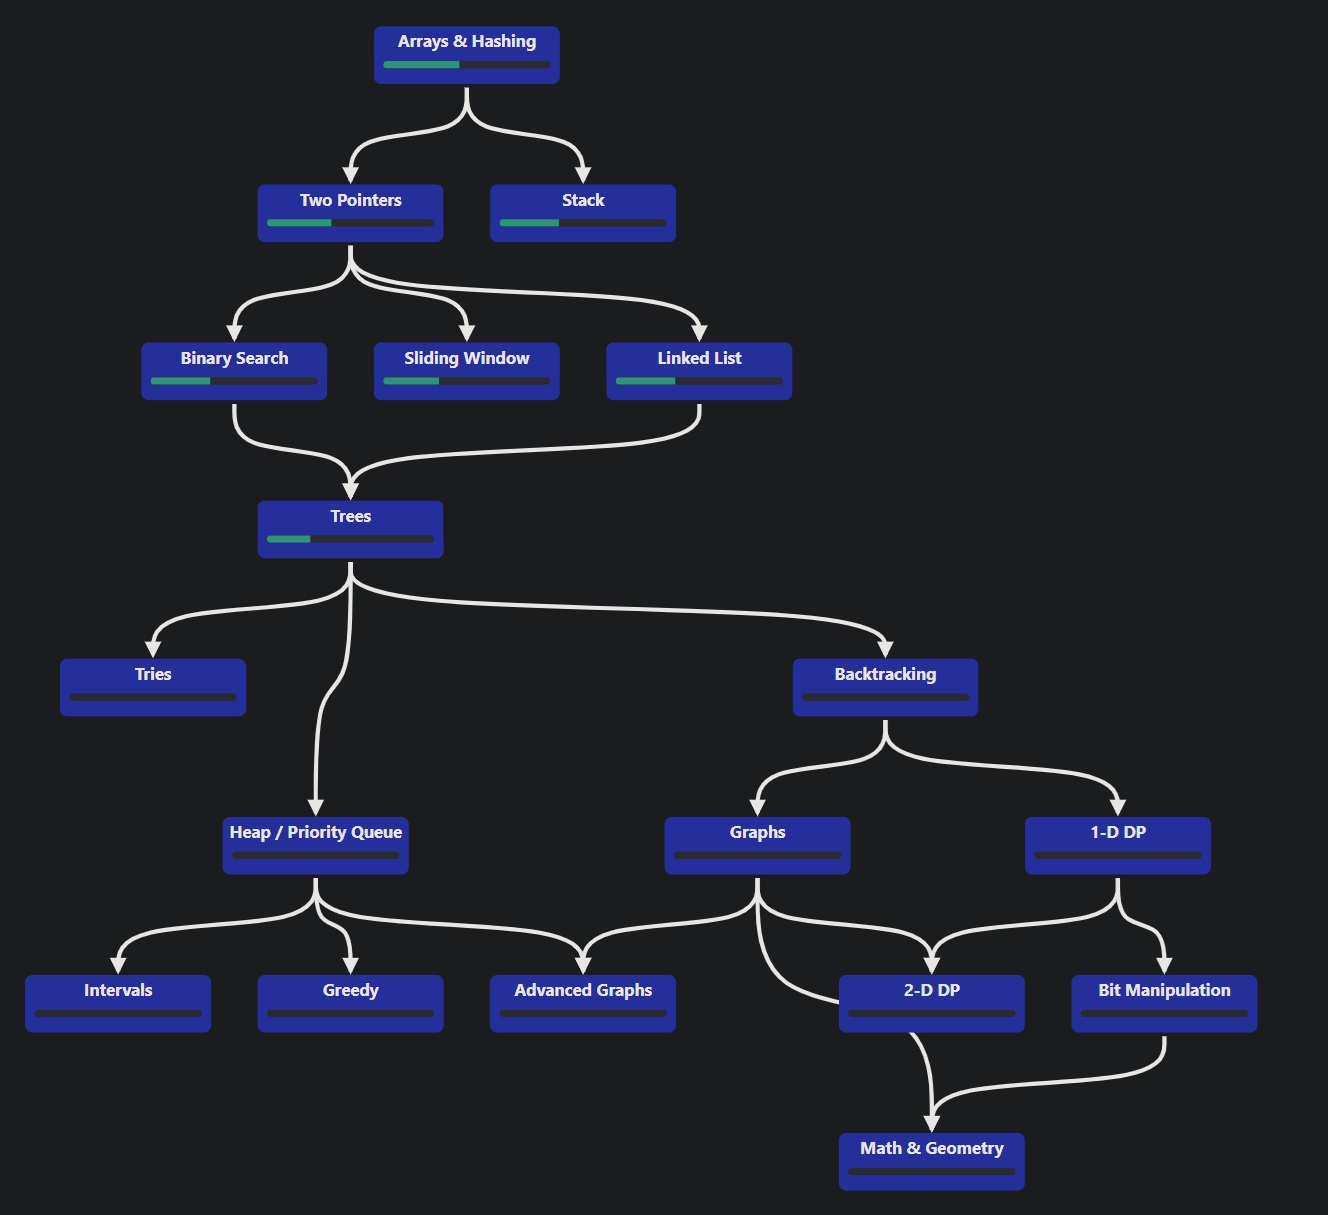
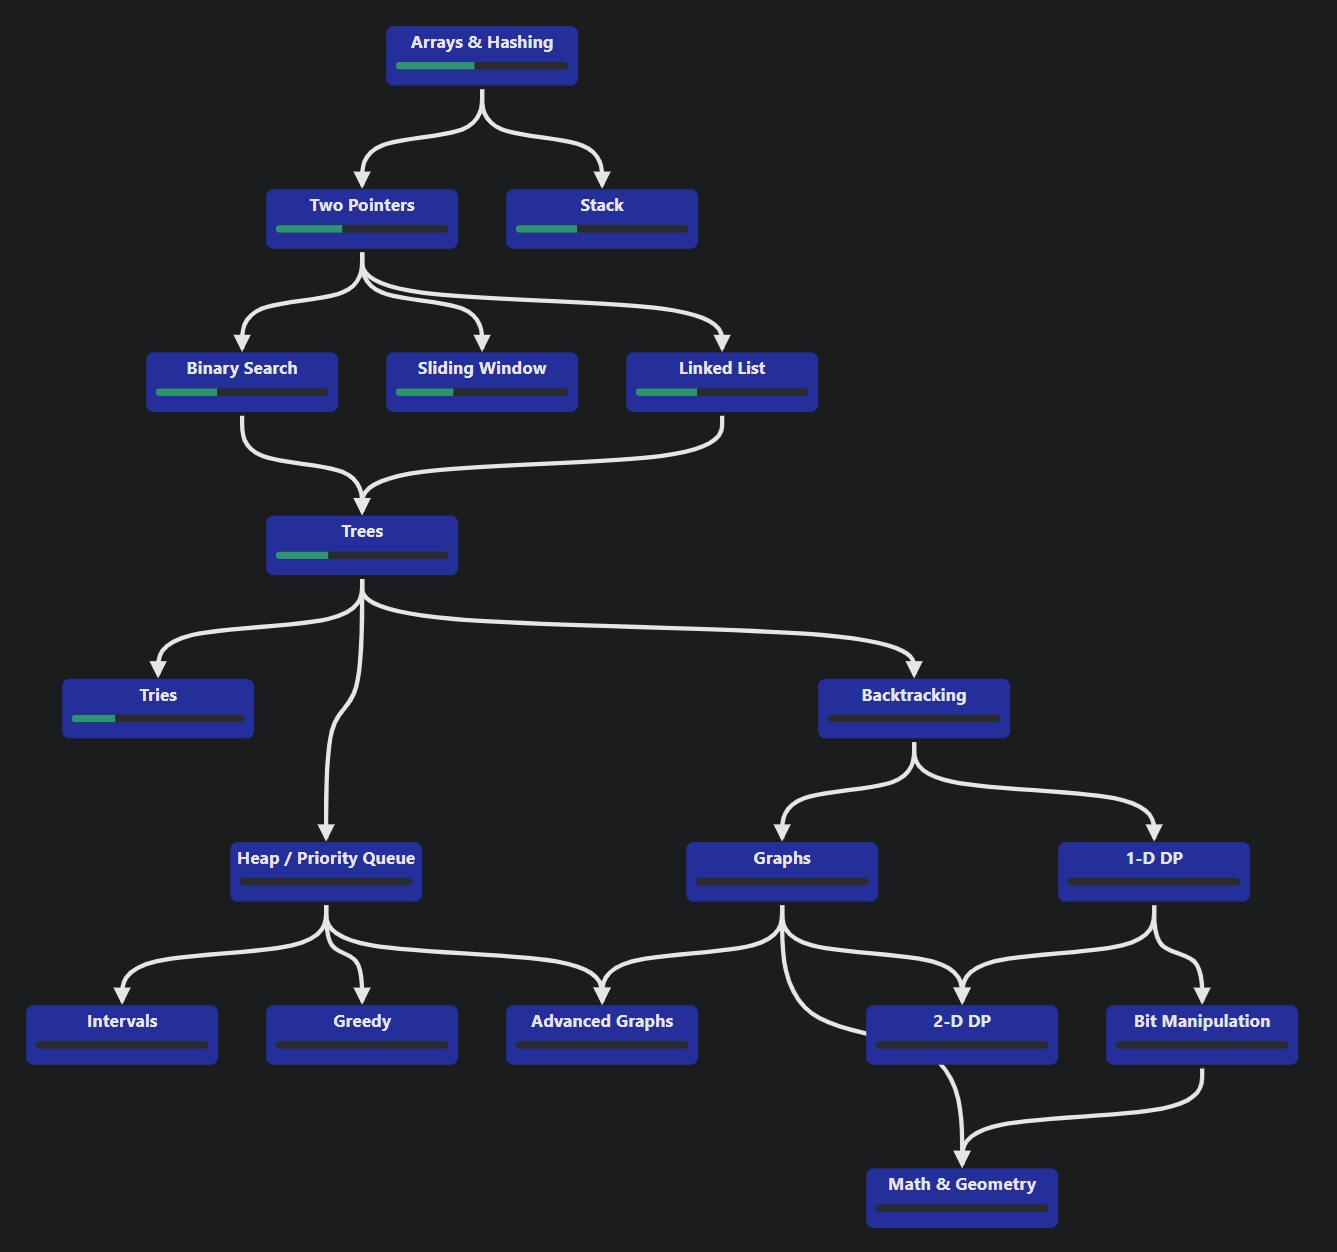
Add solutions

diff --git a/Tries/Implement-Trie-Prefix-Tree.py b/Tries/Implement-Trie-Prefix-Tree.py
@@ -1,0 +1,51 @@
+# Helper class to store data for each character
+class Node:
+    def __init__(self, val):
+        self.val = val  # The character
+        self.children = {}  # The set of nodes containing characters that follow this one
+
+class PrefixTree:
+
+    # Create node to mark the head
+    def __init__(self):
+        self.head = Node(0)
+
+    def insert(self, word: str) -> None:
+
+        # Go through each char in the word, creating a new node for each character
+        # that doesn't already exist (linked list)
+        curr = self.head
+        for ch in word:
+            if ch in curr.children:
+                curr = curr.children[ch]
+            else:
+                new = Node(ch)
+                curr.children[ch] = new
+                curr = new
+        
+        # Special marker to indicate this was the end of the word
+        curr.children["end"] = True
+
+    def search(self, word: str) -> bool:
+
+        # Go through the nodes and make sure we find a valid path
+        curr = self.head
+        for ch in word:
+            if not ch in curr.children: return False
+            curr = curr.children[ch]
+
+        # Check if the final node was marked as the end of a word
+        return "end" in curr.children  
+        
+    
+    def startsWith(self, prefix: str) -> bool:
+
+        # Go through the nodes and make sure we find a valid path
+        curr = self.head
+        for ch in prefix:
+            if not ch in curr.children: return False
+            curr = curr.children[ch]
+
+        # We don't care if end of word, so just return true if valid
+        # until the end point
+        return True   

diff --git a/Trees/Same-Tree.py b/Trees/Same-Tree.py
@@ -1,0 +1,21 @@
+from typing import Optional
+
+class TreeNode:
+    def __init__(self, val=0, left=None, right=None):
+        self.val = val
+        self.left = left
+        self.right = right
+
+class Solution:
+    def isSameTree(self, p: Optional[TreeNode], q: Optional[TreeNode]) -> bool:
+        
+        def compare(p, q):
+            if (p and not q) or (q and not p): return False
+            if p == q == None: return
+            if p.val != q.val: return False
+
+            compare(p.left, q.left)
+            compare(p.right, q.right)
+
+        compare(p, q)
+        return True
